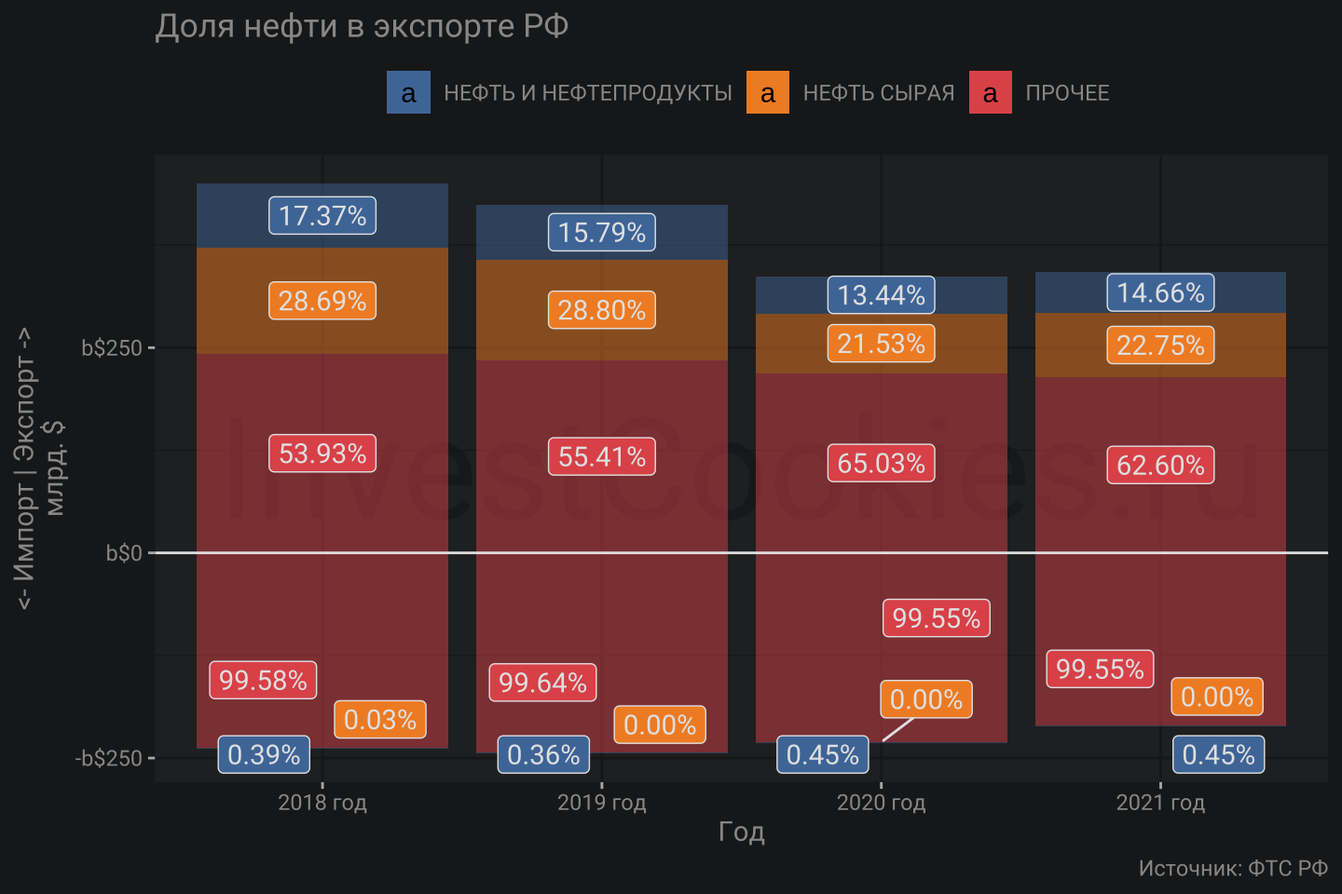
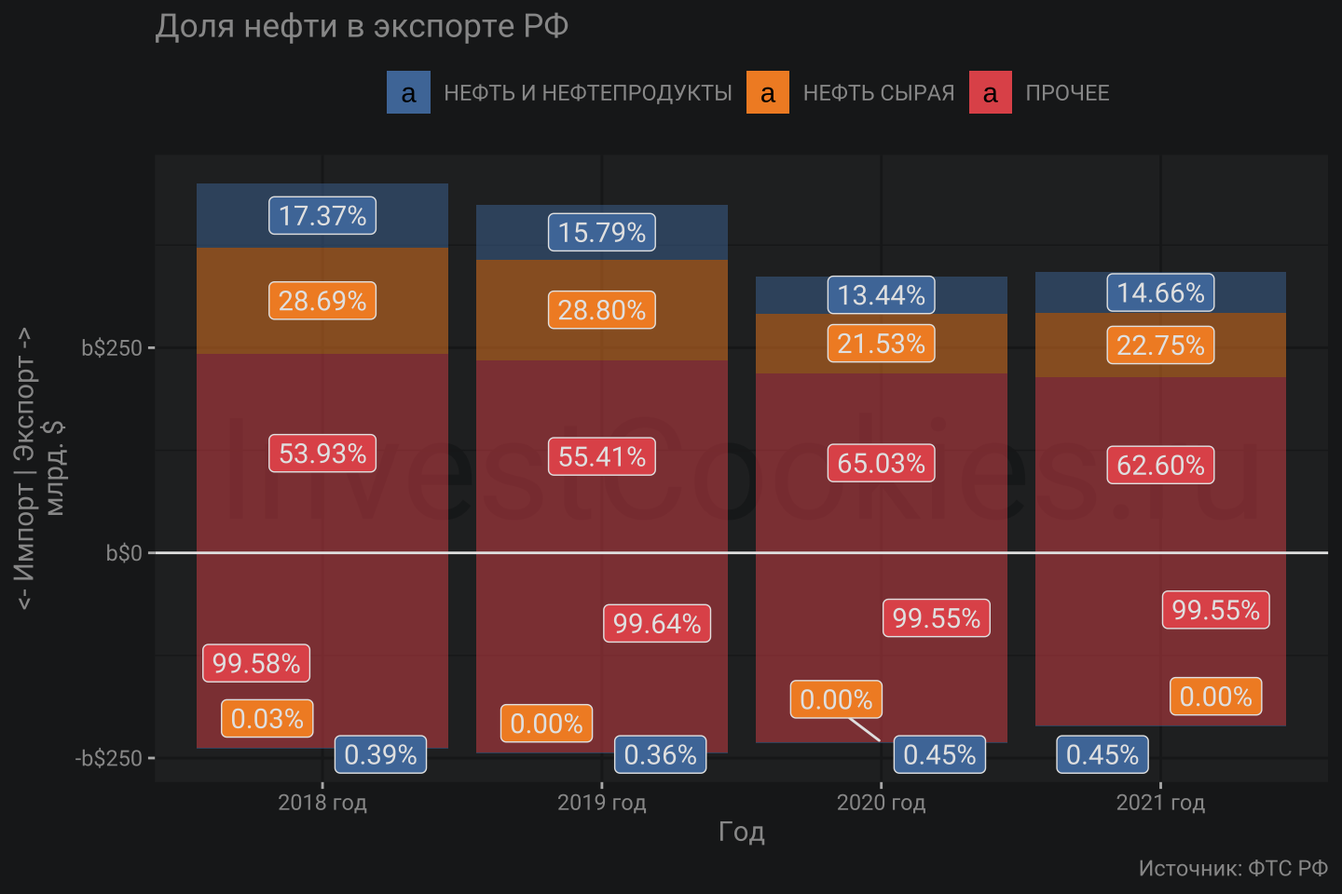
add labels

diff --git a/content/post/ruble_mantras/index.md b/content/post/ruble_mantras/index.md
@@ -69,9 +69,9 @@ cover:
 
 <img src="{{< blogdown/postref >}}index_files/figure-html/unnamed-chunk-1-1.png" width="720" />
 
-К сожалению, ФТС публикует свои данные в потребном формате лишь с 2018 года и на интервале 2018-2021 действительно можно видеть некоторое снижение доли сырой нефти и нефти более высоких переделов. Совокупно доля с **46%** в 2018 году снизилась до **34-36%** в 2020-2021 году и если 2020 год был по всем характеристикам не очень обычным, то 2021 год - является показательным даже с учетом того, что он еще не закончился и следовательно сравнивать 2021 год с предыдущими по абсолютному значению будет не очень корректно.
+К сожалению, ФТС публикует свои данные в потребном формате лишь с 2018 года и на интервале 2018-2021 действительно можно видеть некоторое снижение доли <a style='color:white; background:#F28E2B; border-radius:3px;padding: 2px' >cырой нефти</a> и <a style='color:white; background:#4E79A7; border-radius:3px;padding: 2px' >нефти более высоких переделов</a>. Совокупно доля с **46%** в 2018 году снизилась до **34-36%** в 2020-2021 году и если 2020 год был по всем характеристикам не очень обычным, то 2021 год - является показательным даже с учетом того, что он еще не закончился и следовательно сравнивать 2021 год с предыдущими по абсолютному значению будет не очень корректно.
 
-Следующее, что можно заметить - это то, что объем импорта приблизительно соответствует объему экспорта без учета сырой нефти и даже нефтепродуктов. Иными словами, объем импортируемого барахла в РФ может быть легко покрыт экспортом без учета нефти. 🥳🥳🥳 Конечно, это в определенном смысле лукавство потому как в торговом балансе отсутствуют потоки капитала и сальдо по импорту-экспорту услуг, а обе эти составляющие хронически отрицательны, но об этом в другой раз.
+Следующее, что можно заметить - это то, что объем импорта приблизительно соответствует объему экспорта без учета <a style='color:white; background:#F28E2B; border-radius:3px;padding: 2px' >cырой нефти</a> и даже <a style='color:white; background:#4E79A7; border-radius:3px;padding: 2px' >нефтепродуктов</a>. Иными словами, объем импортируемого барахла в РФ может быть легко покрыт экспортом без учета нефти. 🥳🥳🥳 Конечно, это в определенном смысле лукавство потому как в торговом балансе отсутствуют потоки капитала и сальдо по импорту-экспорту услуг, а обе эти составляющие хронически отрицательны, но об этом в другой раз.
 
 Понятно, что ценообразование - это далеко не всегда биржевые котировки марки Brent. Мазут, газойл, дизелное топливо, прочие дистилляты разного пошиба - все это имеет свою структуру ценообразования, которая конечно зависит от нефти, но также имеет и свои уникальные ценовые триггеры. Также марка Brent - это не марка Urals, которая на самом деле относится к российскому происхождению и между этими марками есть свой спред. Еще есть газ, уголь - которые к нефти не относятся, но зачастую торгуются в одном направлении с нефтью и также влияют на совокупный объем экспорта. В общем нюансов масса, которые учесть очень не просто.
 
@@ -89,7 +89,7 @@ cover:
 -   отрицательная корреляция: более -0.6, но менее -0.2.
 
 <div id="htmlwidget-1" style="width:576px;height:480px;" class="plotly html-widget"></div>
-<script type="application/json" data-for="htmlwidget-1">{"x":{"data":[{"orientation":"v","width":[0.9,0.9,0.9,0.9,0.9,0.9,0.9,0.899999999999999,0.899999999999999,0.899999999999999,0.899999999999999,0.899999999999999,0.899999999999999,0.899999999999999,0.899999999999999],"base":[23,128,147,119,125,173,196,129,137,122,218,177,147,130,129],"x":[1,2,3,4,5,6,7,8,9,10,11,12,13,14,15],"y":[59,134,114,142,135,88,65,132,124,139,42,84,114,132,102],"text":["Год: 2007<br />n:  59<br />Группы: Высокая отрицательная","Год: 2008<br />n: 134<br />Группы: Высокая отрицательная","Год: 2009<br />n: 114<br />Группы: Высокая отрицательная","Год: 2010<br />n: 142<br />Группы: Высокая отрицательная","Год: 2011<br />n: 135<br />Группы: Высокая отрицательная","Год: 2012<br />n:  88<br />Группы: Высокая отрицательная","Год: 2013<br />n:  65<br />Группы: Высокая отрицательная","Год: 2014<br />n: 132<br />Группы: Высокая отрицательная","Год: 2015<br />n: 124<br />Группы: Высокая отрицательная","Год: 2016<br />n: 139<br />Группы: Высокая отрицательная","Год: 2017<br />n:  42<br />Группы: Высокая отрицательная","Год: 2018<br />n:  84<br />Группы: Высокая отрицательная","Год: 2019<br />n: 114<br />Группы: Высокая отрицательная","Год: 2020<br />n: 132<br />Группы: Высокая отрицательная","Год: 2021<br />n: 102<br />Группы: Высокая отрицательная"],"type":"bar","textposition":"none","marker":{"autocolorscale":false,"color":"rgba(78,121,167,0.6)","line":{"width":1.88976377952756,"color":"transparent"}},"name":"Высокая отрицательная","legendgroup":"Высокая отрицательная","showlegend":true,"xaxis":"x","yaxis":"y","hoverinfo":"text","frame":null},{"orientation":"v","width":[0.9,0.9,0.9,0.9,0.9,0.9,0.9,0.899999999999999,0.899999999999999,0.899999999999999,0.899999999999999,0.899999999999999,0.899999999999999,0.899999999999999,0.899999999999999],"base":[4,61,80,44,35,83,125,74,42,49,129,124,56,84,62],"x":[1,2,3,4,5,6,7,8,9,10,11,12,13,14,15],"y":[19,67,67,75,90,90,71,55,95,73,89,53,91,46,67],"text":["Год: 2007<br />n:  19<br />Группы: Отрицательная","Год: 2008<br />n:  67<br />Группы: Отрицательная","Год: 2009<br />n:  67<br />Группы: Отрицательная","Год: 2010<br />n:  75<br />Группы: Отрицательная","Год: 2011<br />n:  90<br />Группы: Отрицательная","Год: 2012<br />n:  90<br />Группы: Отрицательная","Год: 2013<br />n:  71<br />Группы: Отрицательная","Год: 2014<br />n:  55<br />Группы: Отрицательная","Год: 2015<br />n:  95<br />Группы: Отрицательная","Год: 2016<br />n:  73<br />Группы: Отрицательная","Год: 2017<br />n:  89<br />Группы: Отрицательная","Год: 2018<br />n:  53<br />Группы: Отрицательная","Год: 2019<br />n:  91<br />Группы: Отрицательная","Год: 2020<br />n:  46<br />Группы: Отрицательная","Год: 2021<br />n:  67<br />Группы: Отрицательная"],"type":"bar","textposition":"none","marker":{"autocolorscale":false,"color":"rgba(242,142,43,0.6)","line":{"width":1.88976377952756,"color":"transparent"}},"name":"Отрицательная","legendgroup":"Отрицательная","showlegend":true,"xaxis":"x","yaxis":"y","hoverinfo":"text","frame":null},{"orientation":"v","width":[0.9,0.9,0.9,0.9,0.9,0.9,0.9,0.899999999999999,0.899999999999999,0.899999999999999,0.899999999999999,0.899999999999999,0.899999999999999,0.899999999999999,0.899999999999999],"base":[0,18,33,28,13,35,86,53,18,8,54,84,9,52,22],"x":[1,2,3,4,5,6,7,8,9,10,11,12,13,14,15],"y":[4,43,47,16,22,48,39,21,24,41,75,40,47,32,40],"text":["Год: 2007<br />n:   4<br />Группы: Слабая","Год: 2008<br />n:  43<br />Группы: Слабая","Год: 2009<br />n:  47<br />Группы: Слабая","Год: 2010<br />n:  16<br />Группы: Слабая","Год: 2011<br />n:  22<br />Группы: Слабая","Год: 2012<br />n:  48<br />Группы: Слабая","Год: 2013<br />n:  39<br />Группы: Слабая","Год: 2014<br />n:  21<br />Группы: Слабая","Год: 2015<br />n:  24<br />Группы: Слабая","Год: 2016<br />n:  41<br />Группы: Слабая","Год: 2017<br />n:  75<br />Группы: Слабая","Год: 2018<br />n:  40<br />Группы: Слабая","Год: 2019<br />n:  47<br />Группы: Слабая","Год: 2020<br />n:  32<br />Группы: Слабая","Год: 2021<br />n:  40<br />Группы: Слабая"],"type":"bar","textposition":"none","marker":{"autocolorscale":false,"color":"rgba(225,87,89,0.6)","line":{"width":1.88976377952756,"color":"transparent"}},"name":"Слабая","legendgroup":"Слабая","showlegend":true,"xaxis":"x","yaxis":"y","hoverinfo":"text","frame":null},{"orientation":"v","width":[0.9,0.9,0.9,0.9,0.9,0.9,0.899999999999999,0.899999999999999,0.899999999999999,0.899999999999999,0.899999999999999,0.899999999999999,0.899999999999999,0.899999999999999],"base":[7,0,0,0,0,53,8,0,0,19,36,0,38,0],"x":[2,3,4,5,6,7,8,9,10,11,12,13,14,15],"y":[11,33,28,13,35,33,45,18,8,35,48,9,14,22],"text":["Год: 2008<br />n:  11<br />Группы: Положительная","Год: 2009<br />n:  33<br />Группы: Положительная","Год: 2010<br />n:  28<br />Группы: Положительная","Год: 2011<br />n:  13<br />Группы: Положительная","Год: 2012<br />n:  35<br />Группы: Положительная","Год: 2013<br />n:  33<br />Группы: Положительная","Год: 2014<br />n:  45<br />Группы: Положительная","Год: 2015<br />n:  18<br />Группы: Положительная","Год: 2016<br />n:   8<br />Группы: Положительная","Год: 2017<br />n:  35<br />Группы: Положительная","Год: 2018<br />n:  48<br />Группы: Положительная","Год: 2019<br />n:   9<br />Группы: Положительная","Год: 2020<br />n:  14<br />Группы: Положительная","Год: 2021<br />n:  22<br />Группы: Положительная"],"type":"bar","textposition":"none","marker":{"autocolorscale":false,"color":"rgba(118,183,178,0.6)","line":{"width":1.88976377952756,"color":"transparent"}},"name":"Положительная","legendgroup":"Положительная","showlegend":true,"xaxis":"x","yaxis":"y","hoverinfo":"text","frame":null},{"orientation":"v","width":[0.9,0.9,0.899999999999999,0.899999999999999,0.899999999999999,0.899999999999999],"base":[0,0,0,0,0,0],"x":[2,7,8,11,12,14],"y":[7,53,8,19,36,38],"text":["Год: 2008<br />n:   7<br />Группы: Высокая положительная","Год: 2013<br />n:  53<br />Группы: Высокая положительная","Год: 2014<br />n:   8<br />Группы: Высокая положительная","Год: 2017<br />n:  19<br />Группы: Высокая положительная","Год: 2018<br />n:  36<br />Группы: Высокая положительная","Год: 2020<br />n:  38<br />Группы: Высокая положительная"],"type":"bar","textposition":"none","marker":{"autocolorscale":false,"color":"rgba(89,161,79,0.6)","line":{"width":1.88976377952756,"color":"transparent"}},"name":"Высокая положительная","legendgroup":"Высокая положительная","showlegend":true,"xaxis":"x","yaxis":"y","hoverinfo":"text","frame":null}],"layout":{"margin":{"t":42.3013698630137,"r":7.30593607305936,"b":24.1095890410959,"l":43.1050228310502},"plot_bgcolor":"rgba(40,41,43,1)","paper_bgcolor":"rgba(29,30,32,1)","font":{"color":"rgba(153,153,153,1)","family":"verdana","size":14.6118721461187},"title":{"text":"Группы корреляций котировок нефти и курса рубля","font":{"color":"rgba(153,153,153,1)","family":"verdana","size":17.5342465753425},"x":0,"xref":"paper"},"xaxis":{"domain":[0,1],"automargin":true,"type":"linear","autorange":false,"range":[0.4,15.6],"tickmode":"array","ticktext":["2007","2008","2009","2010","2011","2012","2013","2014","2015","2016","2017","2018","2019","2020","2021"],"tickvals":[1,2,3,4,5,6,7,8,9,10,11,12,13,14,15],"categoryorder":"array","categoryarray":["2007","2008","2009","2010","2011","2012","2013","2014","2015","2016","2017","2018","2019","2020","2021"],"nticks":null,"ticks":"outside","tickcolor":"rgba(182,182,182,1)","ticklen":3.65296803652968,"tickwidth":0.66417600664176,"showticklabels":true,"tickfont":{"color":"rgba(153,153,153,1)","family":"Roboto","size":11.689497716895},"tickangle":-0,"showline":false,"linecolor":null,"linewidth":0,"showgrid":true,"gridcolor":"rgba(29,30,32,1)","gridwidth":0.66417600664176,"zeroline":false,"anchor":"y","title":{"text":"","font":{"color":"rgba(153,153,153,1)","family":"verdana","size":14.6118721461187}},"hoverformat":".2f"},"yaxis":{"domain":[0,1],"automargin":true,"type":"linear","autorange":false,"range":[-13.1,275.1],"tickmode":"array","ticktext":["0","100","200"],"tickvals":[-1.77635683940025e-15,100,200],"categoryorder":"array","categoryarray":["0","100","200"],"nticks":null,"ticks":"outside","tickcolor":"rgba(182,182,182,1)","ticklen":3.65296803652968,"tickwidth":0.66417600664176,"showticklabels":true,"tickfont":{"color":"rgba(153,153,153,1)","family":"Roboto","size":11.689497716895},"tickangle":-0,"showline":false,"linecolor":null,"linewidth":0,"showgrid":true,"gridcolor":"rgba(29,30,32,1)","gridwidth":0.66417600664176,"zeroline":false,"anchor":"x","title":{"text":"Количество наблюдений","font":{"color":"rgba(153,153,153,1)","family":"verdana","size":14.6118721461187}},"hoverformat":".2f"},"shapes":[{"type":"rect","fillcolor":null,"line":{"color":null,"width":0,"linetype":[]},"yref":"paper","xref":"paper","x0":0,"x1":1,"y0":0,"y1":1}],"showlegend":true,"legend":{"bgcolor":"rgba(29,30,32,1)","bordercolor":"transparent","borderwidth":1.88976377952756,"font":{"color":"rgba(153,153,153,1)","family":"verdana","size":11.689497716895},"title":{"text":"","font":{"color":"rgba(153,153,153,1)","family":"Roboto","size":14.6118721461187}},"orientation":"h"},"hovermode":"closest","barmode":"relative","annotations":[{"text":"InvestCookies.ru","yanchor":"auto","opacity":0.2,"font":{"size":50}}]},"config":{"doubleClick":"reset","modeBarButtonsToAdd":["hoverclosest","hovercompare"],"showSendToCloud":false,"displayModeBar":false},"source":"A","attrs":{"62db420933b1":{"x":{},"y":{},"fill":{},"type":"bar"}},"cur_data":"62db420933b1","visdat":{"62db420933b1":["function (y) ","x"]},"highlight":{"on":"plotly_click","persistent":false,"dynamic":false,"selectize":false,"opacityDim":0.2,"selected":{"opacity":1},"debounce":0},"shinyEvents":["plotly_hover","plotly_click","plotly_selected","plotly_relayout","plotly_brushed","plotly_brushing","plotly_clickannotation","plotly_doubleclick","plotly_deselect","plotly_afterplot","plotly_sunburstclick"],"base_url":"https://plot.ly"},"evals":[],"jsHooks":[]}</script>
+<script type="application/json" data-for="htmlwidget-1">{"x":{"data":[{"orientation":"v","width":[0.9,0.9,0.9,0.9,0.9,0.9,0.9,0.899999999999999,0.899999999999999,0.899999999999999,0.899999999999999,0.899999999999999,0.899999999999999,0.899999999999999,0.899999999999999],"base":[23,128,147,119,125,173,196,129,137,122,218,177,147,130,129],"x":[1,2,3,4,5,6,7,8,9,10,11,12,13,14,15],"y":[59,134,114,142,135,88,65,132,124,139,42,84,114,132,102],"text":["Год: 2007<br />n:  59<br />Группы: Высокая отрицательная","Год: 2008<br />n: 134<br />Группы: Высокая отрицательная","Год: 2009<br />n: 114<br />Группы: Высокая отрицательная","Год: 2010<br />n: 142<br />Группы: Высокая отрицательная","Год: 2011<br />n: 135<br />Группы: Высокая отрицательная","Год: 2012<br />n:  88<br />Группы: Высокая отрицательная","Год: 2013<br />n:  65<br />Группы: Высокая отрицательная","Год: 2014<br />n: 132<br />Группы: Высокая отрицательная","Год: 2015<br />n: 124<br />Группы: Высокая отрицательная","Год: 2016<br />n: 139<br />Группы: Высокая отрицательная","Год: 2017<br />n:  42<br />Группы: Высокая отрицательная","Год: 2018<br />n:  84<br />Группы: Высокая отрицательная","Год: 2019<br />n: 114<br />Группы: Высокая отрицательная","Год: 2020<br />n: 132<br />Группы: Высокая отрицательная","Год: 2021<br />n: 102<br />Группы: Высокая отрицательная"],"type":"bar","textposition":"none","marker":{"autocolorscale":false,"color":"rgba(78,121,167,0.6)","line":{"width":1.88976377952756,"color":"transparent"}},"name":"Высокая отрицательная","legendgroup":"Высокая отрицательная","showlegend":true,"xaxis":"x","yaxis":"y","hoverinfo":"text","frame":null},{"orientation":"v","width":[0.9,0.9,0.9,0.9,0.9,0.9,0.9,0.899999999999999,0.899999999999999,0.899999999999999,0.899999999999999,0.899999999999999,0.899999999999999,0.899999999999999,0.899999999999999],"base":[4,61,80,44,35,83,125,74,42,49,129,124,56,84,62],"x":[1,2,3,4,5,6,7,8,9,10,11,12,13,14,15],"y":[19,67,67,75,90,90,71,55,95,73,89,53,91,46,67],"text":["Год: 2007<br />n:  19<br />Группы: Отрицательная","Год: 2008<br />n:  67<br />Группы: Отрицательная","Год: 2009<br />n:  67<br />Группы: Отрицательная","Год: 2010<br />n:  75<br />Группы: Отрицательная","Год: 2011<br />n:  90<br />Группы: Отрицательная","Год: 2012<br />n:  90<br />Группы: Отрицательная","Год: 2013<br />n:  71<br />Группы: Отрицательная","Год: 2014<br />n:  55<br />Группы: Отрицательная","Год: 2015<br />n:  95<br />Группы: Отрицательная","Год: 2016<br />n:  73<br />Группы: Отрицательная","Год: 2017<br />n:  89<br />Группы: Отрицательная","Год: 2018<br />n:  53<br />Группы: Отрицательная","Год: 2019<br />n:  91<br />Группы: Отрицательная","Год: 2020<br />n:  46<br />Группы: Отрицательная","Год: 2021<br />n:  67<br />Группы: Отрицательная"],"type":"bar","textposition":"none","marker":{"autocolorscale":false,"color":"rgba(242,142,43,0.6)","line":{"width":1.88976377952756,"color":"transparent"}},"name":"Отрицательная","legendgroup":"Отрицательная","showlegend":true,"xaxis":"x","yaxis":"y","hoverinfo":"text","frame":null},{"orientation":"v","width":[0.9,0.9,0.9,0.9,0.9,0.9,0.9,0.899999999999999,0.899999999999999,0.899999999999999,0.899999999999999,0.899999999999999,0.899999999999999,0.899999999999999,0.899999999999999],"base":[0,18,33,28,13,35,86,53,18,8,54,84,9,52,22],"x":[1,2,3,4,5,6,7,8,9,10,11,12,13,14,15],"y":[4,43,47,16,22,48,39,21,24,41,75,40,47,32,40],"text":["Год: 2007<br />n:   4<br />Группы: Слабая","Год: 2008<br />n:  43<br />Группы: Слабая","Год: 2009<br />n:  47<br />Группы: Слабая","Год: 2010<br />n:  16<br />Группы: Слабая","Год: 2011<br />n:  22<br />Группы: Слабая","Год: 2012<br />n:  48<br />Группы: Слабая","Год: 2013<br />n:  39<br />Группы: Слабая","Год: 2014<br />n:  21<br />Группы: Слабая","Год: 2015<br />n:  24<br />Группы: Слабая","Год: 2016<br />n:  41<br />Группы: Слабая","Год: 2017<br />n:  75<br />Группы: Слабая","Год: 2018<br />n:  40<br />Группы: Слабая","Год: 2019<br />n:  47<br />Группы: Слабая","Год: 2020<br />n:  32<br />Группы: Слабая","Год: 2021<br />n:  40<br />Группы: Слабая"],"type":"bar","textposition":"none","marker":{"autocolorscale":false,"color":"rgba(225,87,89,0.6)","line":{"width":1.88976377952756,"color":"transparent"}},"name":"Слабая","legendgroup":"Слабая","showlegend":true,"xaxis":"x","yaxis":"y","hoverinfo":"text","frame":null},{"orientation":"v","width":[0.9,0.9,0.9,0.9,0.9,0.9,0.899999999999999,0.899999999999999,0.899999999999999,0.899999999999999,0.899999999999999,0.899999999999999,0.899999999999999,0.899999999999999],"base":[7,0,0,0,0,53,8,0,0,19,36,0,38,0],"x":[2,3,4,5,6,7,8,9,10,11,12,13,14,15],"y":[11,33,28,13,35,33,45,18,8,35,48,9,14,22],"text":["Год: 2008<br />n:  11<br />Группы: Положительная","Год: 2009<br />n:  33<br />Группы: Положительная","Год: 2010<br />n:  28<br />Группы: Положительная","Год: 2011<br />n:  13<br />Группы: Положительная","Год: 2012<br />n:  35<br />Группы: Положительная","Год: 2013<br />n:  33<br />Группы: Положительная","Год: 2014<br />n:  45<br />Группы: Положительная","Год: 2015<br />n:  18<br />Группы: Положительная","Год: 2016<br />n:   8<br />Группы: Положительная","Год: 2017<br />n:  35<br />Группы: Положительная","Год: 2018<br />n:  48<br />Группы: Положительная","Год: 2019<br />n:   9<br />Группы: Положительная","Год: 2020<br />n:  14<br />Группы: Положительная","Год: 2021<br />n:  22<br />Группы: Положительная"],"type":"bar","textposition":"none","marker":{"autocolorscale":false,"color":"rgba(118,183,178,0.6)","line":{"width":1.88976377952756,"color":"transparent"}},"name":"Положительная","legendgroup":"Положительная","showlegend":true,"xaxis":"x","yaxis":"y","hoverinfo":"text","frame":null},{"orientation":"v","width":[0.9,0.9,0.899999999999999,0.899999999999999,0.899999999999999,0.899999999999999],"base":[0,0,0,0,0,0],"x":[2,7,8,11,12,14],"y":[7,53,8,19,36,38],"text":["Год: 2008<br />n:   7<br />Группы: Высокая положительная","Год: 2013<br />n:  53<br />Группы: Высокая положительная","Год: 2014<br />n:   8<br />Группы: Высокая положительная","Год: 2017<br />n:  19<br />Группы: Высокая положительная","Год: 2018<br />n:  36<br />Группы: Высокая положительная","Год: 2020<br />n:  38<br />Группы: Высокая положительная"],"type":"bar","textposition":"none","marker":{"autocolorscale":false,"color":"rgba(89,161,79,0.6)","line":{"width":1.88976377952756,"color":"transparent"}},"name":"Высокая положительная","legendgroup":"Высокая положительная","showlegend":true,"xaxis":"x","yaxis":"y","hoverinfo":"text","frame":null}],"layout":{"margin":{"t":42.3013698630137,"r":7.30593607305936,"b":24.1095890410959,"l":43.1050228310502},"plot_bgcolor":"rgba(40,41,43,1)","paper_bgcolor":"rgba(29,30,32,1)","font":{"color":"rgba(153,153,153,1)","family":"verdana","size":14.6118721461187},"title":{"text":"Группы корреляций котировок нефти и курса рубля","font":{"color":"rgba(153,153,153,1)","family":"verdana","size":17.5342465753425},"x":0,"xref":"paper"},"xaxis":{"domain":[0,1],"automargin":true,"type":"linear","autorange":false,"range":[0.4,15.6],"tickmode":"array","ticktext":["2007","2008","2009","2010","2011","2012","2013","2014","2015","2016","2017","2018","2019","2020","2021"],"tickvals":[1,2,3,4,5,6,7,8,9,10,11,12,13,14,15],"categoryorder":"array","categoryarray":["2007","2008","2009","2010","2011","2012","2013","2014","2015","2016","2017","2018","2019","2020","2021"],"nticks":null,"ticks":"outside","tickcolor":"rgba(182,182,182,1)","ticklen":3.65296803652968,"tickwidth":0.66417600664176,"showticklabels":true,"tickfont":{"color":"rgba(153,153,153,1)","family":"Roboto","size":11.689497716895},"tickangle":-0,"showline":false,"linecolor":null,"linewidth":0,"showgrid":true,"gridcolor":"rgba(29,30,32,1)","gridwidth":0.66417600664176,"zeroline":false,"anchor":"y","title":{"text":"","font":{"color":"rgba(153,153,153,1)","family":"verdana","size":14.6118721461187}},"hoverformat":".2f"},"yaxis":{"domain":[0,1],"automargin":true,"type":"linear","autorange":false,"range":[-13.1,275.1],"tickmode":"array","ticktext":["0","100","200"],"tickvals":[-1.77635683940025e-15,100,200],"categoryorder":"array","categoryarray":["0","100","200"],"nticks":null,"ticks":"outside","tickcolor":"rgba(182,182,182,1)","ticklen":3.65296803652968,"tickwidth":0.66417600664176,"showticklabels":true,"tickfont":{"color":"rgba(153,153,153,1)","family":"Roboto","size":11.689497716895},"tickangle":-0,"showline":false,"linecolor":null,"linewidth":0,"showgrid":true,"gridcolor":"rgba(29,30,32,1)","gridwidth":0.66417600664176,"zeroline":false,"anchor":"x","title":{"text":"Количество наблюдений","font":{"color":"rgba(153,153,153,1)","family":"verdana","size":14.6118721461187}},"hoverformat":".2f"},"shapes":[{"type":"rect","fillcolor":null,"line":{"color":null,"width":0,"linetype":[]},"yref":"paper","xref":"paper","x0":0,"x1":1,"y0":0,"y1":1}],"showlegend":true,"legend":{"bgcolor":"rgba(29,30,32,1)","bordercolor":"transparent","borderwidth":1.88976377952756,"font":{"color":"rgba(153,153,153,1)","family":"verdana","size":11.689497716895},"title":{"text":"","font":{"color":"rgba(153,153,153,1)","family":"Roboto","size":14.6118721461187}},"orientation":"h"},"hovermode":"closest","barmode":"relative","annotations":[{"text":"InvestCookies.ru","yanchor":"auto","opacity":0.2,"font":{"size":50}}]},"config":{"doubleClick":"reset","modeBarButtonsToAdd":["hoverclosest","hovercompare"],"showSendToCloud":false,"displayModeBar":false},"source":"A","attrs":{"6478634155db":{"x":{},"y":{},"fill":{},"type":"bar"}},"cur_data":"6478634155db","visdat":{"6478634155db":["function (y) ","x"]},"highlight":{"on":"plotly_click","persistent":false,"dynamic":false,"selectize":false,"opacityDim":0.2,"selected":{"opacity":1},"debounce":0},"shinyEvents":["plotly_hover","plotly_click","plotly_selected","plotly_relayout","plotly_brushed","plotly_brushing","plotly_clickannotation","plotly_doubleclick","plotly_deselect","plotly_afterplot","plotly_sunburstclick"],"base_url":"https://plot.ly"},"evals":[],"jsHooks":[]}</script>
 
 ## Бюджет
 
@@ -103,10 +103,10 @@ cover:
 
 Для наглядности сравнения графики были масштабированы и общая для них шкала **Y** стала безразмерной. При наложении “в лоб” двух графиков в глаза бросается следующее:
 
--   `A` Два графика действительно похожи друг на друга, а следовательно зависимость имеется `C`
--   Присутствует некоторое “отставание” сальдо федерального бюджета от графика цены Brent и для того чтобы два графика более точно “легли друг на друга” график сальдо бюджета был сдвинут на два месяца назад на диаграмме `B`. Зависимость исполнения бюджета от Brent в рублях выше с учетом сдвига на два месяца. `C и D`
--   На графике сальдо федерального бюджета наблюдаются резкие скачки, которые означают не что иное, как бюджетную погрешность **на конец года**. Особенно хорошо это видно на примере ковидного 2020 года, когда дефицит постепенно накапливался и как-бы обнулился в начале следующего года. Формально, министр финансов должен получать премию только тогда когда размер таких скачков относительно небольшой. Интересно, так ли это на самом деле 👀
--   Доля нефтегазовых доходов в совокупных доходах федерального бюджета несколько уменьшилась с **\~50%** в 2011 году до **\~35%** в 2021 `A и B`
+-   `A` Два графика действительно похожи <a style='color:white; background:#4E79A7; border-radius:3px;padding: 2px' >друг</a> на <a style='color:white; background:#F28E2B; border-radius:3px;padding: 2px' >друга</a>, а следовательно зависимость имеется `C`
+-   Присутствует некоторое “отставание” <a style='color:white; background:#F28E2B; border-radius:3px;padding: 2px' >сальдо федерального бюджета</a> от графика <a style='color:white; background:#4E79A7; border-radius:3px;padding: 2px' >цены Brent</a> и для того чтобы эти два графика более точно “легли друг на друга” график <a style='color:white; background:#F28E2B; border-radius:3px;padding: 2px' >сальдо бюджета</a> был сдвинут на два месяца назад на диаграмме `B`. Зависимость исполнения бюджета от Brent в рублях выше с учетом сдвига на два месяца. `C и D`
+-   На графике <a style='color:white; background:#F28E2B; border-radius:3px;padding: 2px' >сальдо федерального бюджета</a> наблюдаются резкие скачки, которые означают не что иное, как бюджетную погрешность **на конец года**. Особенно хорошо это видно на примере ковидного 2020 года, когда дефицит постепенно накапливался и как-бы обнулился в начале следующего года. Формально, министр финансов должен получать премию только тогда когда размер таких скачков относительно небольшой. Интересно, так ли это на самом деле 👀
+-   <a style='color:white; background:#76B7B2; border-radius:3px;padding: 2px' >Доля нефтегазовых доходов</a> в совокупных доходах федерального бюджета несколько уменьшилась с **\~50%** в 2011 году до **\~35%** в 2021 `A и B`
 
 Получается, что изменение цены Brent в рублях сказывается на бюджете спустя два месяца т.е. присутствует зависимость исполнения бюджета от изменения цены Brent, но не наоборот!!! ❌ Конечно минфин заинтересован в компенсации выпадающих бюджетных доходов за счет курса рубля, но судя по графикам, такого механизма **просто нет**. Действительно, забавно даже представить, как Силуанов звонит Набиулиной с просьбой подсобить с исполнением бюджета путем дополнительной рублевой эмиссии, которая бы автоматом повышала стоимость барреля в рублях. Глава ЦБ РФ железной рукой пытается победить инфляцию, а тут звонит тревожный пассажир 😱 и просит наоборот эту самую инфляцию подраскрутить. Зачем это Набиулиной? Абсолютно незачем, поэтому Силуанова отправляют подальше куда-нибудь в ФНБ или на рынок ОФЗ для осуществления займов. Вариант с ОФЗ вообще для ЦБ выгоден т.к. таким образом абсорбируется ликвидность с рынков капитала, что наоборот тормозит инфляцию.
 
@@ -132,9 +132,9 @@ cover:
 
 <img src="{{< blogdown/postref >}}index_files/figure-html/unnamed-chunk-7-1.png" width="720" />
 
-Выкладывать график `Чистое принятие обязательств` ровно как график `Чистое приобретение финансовых активов` не очень интересно в силу того, что выводов по нервной пиле значений сделать совершенно невозможно. Поэтому эти два показателя представлены в виде накопленного итога трансфертов по счету за каждую отчетную дату. В теории накопленный итог должен равняться его остаткам/остаточной позиции т.е. график по трансфертам с накоплением должен соответствовать итоговой инвестиционной позиции, но это лишь в теории. Дело в том, что инвестиционная позиция может быть переоценена по той или иной причине в большую или меньшую сторону. На верхнем графике отчетливо видно как объем остатка обязательств резидентов РФ неизменно дергается возле отметки 200 млрд.\$ тогда как накопленный итог по счету в 2014 году перешел в отрицательную область. Другими словами, с 2008 года наблюдается ползучий отток иностранного капитала из российского рынка акций. Откуда же тогда рост индекса ММВБ с пика 2008 года (\~2000 пунктов) до пика 2021 (\~4000 пунктов) т.е. фактически в два раза? Очевидно, что за счет резидентов или внутреннего ресурса. Таким образом, доля нерезидентов в капитализации российского рынка[^1] обрушилась с **\~75% в 2008 году** на локальном пике до **\~25% в 2021 году**.
+Выкладывать график `Чистое принятие обязательств` ровно как график `Чистое приобретение финансовых активов` не очень интересно в силу того, что выводов по нервной пиле значений сделать совершенно невозможно. Поэтому эти два показателя представлены в виде накопленного итога трансфертов по счету за каждую отчетную дату. В теории накопленный итог должен равняться его остаткам/остаточной позиции т.е. график по трансфертам с накоплением должен соответствовать итоговой инвестиционной позиции, но это лишь в теории. Дело в том, что инвестиционная позиция может быть переоценена по той или иной причине в большую или меньшую сторону. На верхнем графике отчетливо видно как объем <a style='color:white; background:#F28E2B; border-radius:3px;padding: 2px' >позиции</a> обязательств резидентов РФ неизменно дергается возле отметки 200 млрд.\$ тогда как накопленный итог по счету в 2014 году перешел в отрицательную область. Другими словами, с 2008 года наблюдается ползучий отток иностранного капитала из российского рынка акций. Откуда же тогда рост индекса ММВБ с пика 2008 года (\~2000 пунктов) до пика 2021 (\~4000 пунктов) т.е. фактически в два раза? Очевидно, что за счет резидентов или внутреннего ресурса. Таким образом, доля нерезидентов в капитализации российского рынка[^1] обрушилась с **\~75% в 2008 году** на локальном пике до **\~25% в 2021 году**.
 
-Переходя от акций к облигациям, нерезиденты несущественно нарастили за последнее время позицию в долговых бумагах - приблизительно с **50 млрд.\$ в 2008** до **100 млрд.\$** в 2021. При этом накопленный итог по трансфертам в целом совпадает с позицией по счету `Долговые ценные бумаги`
+Переходя от акций к <a style='color:white; background:#4E79A7; border-radius:3px;padding: 2px' >облигациям</a>, нерезиденты несущественно нарастили за последнее время позицию в долговых бумагах - приблизительно с **50 млрд.\$ в 2008** до **100 млрд.\$** в 2021. При этом накопленный итог по трансфертам в целом совпадает с позицией по счету `Долговые ценные бумаги`
 
 Любопытно, что в случае обязательств остального мира перед резидентами РФ в части долговых бумаг ситуация совершенно обратная. Накопленный объем трансфертов по счету превышает оценку позиции. Иными словами, долговые бумаги перманентно переоценивались в меньшую сторону: соответственно не в пользу резидентов. Трансферты резидентов, связанные с покупкой иностранных акций за последнее время выросли буквально из нулевых значений и достигли **15 млрд.\$** в 2021. Данный факт знаменует превращение РФ в нового игрока на рынке международного капитала.🏌
 
